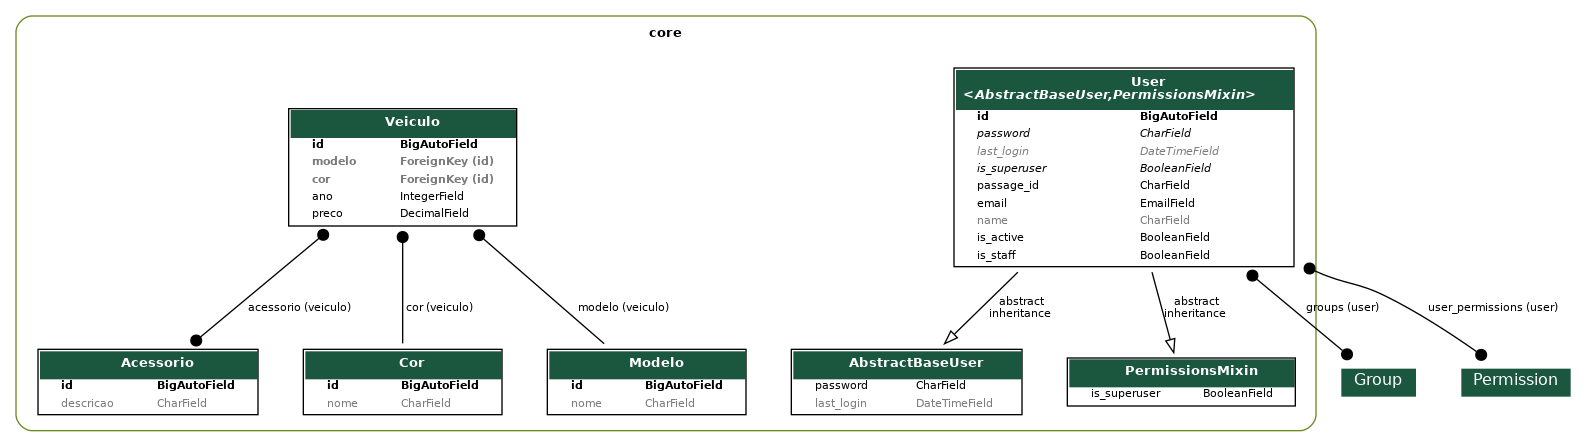
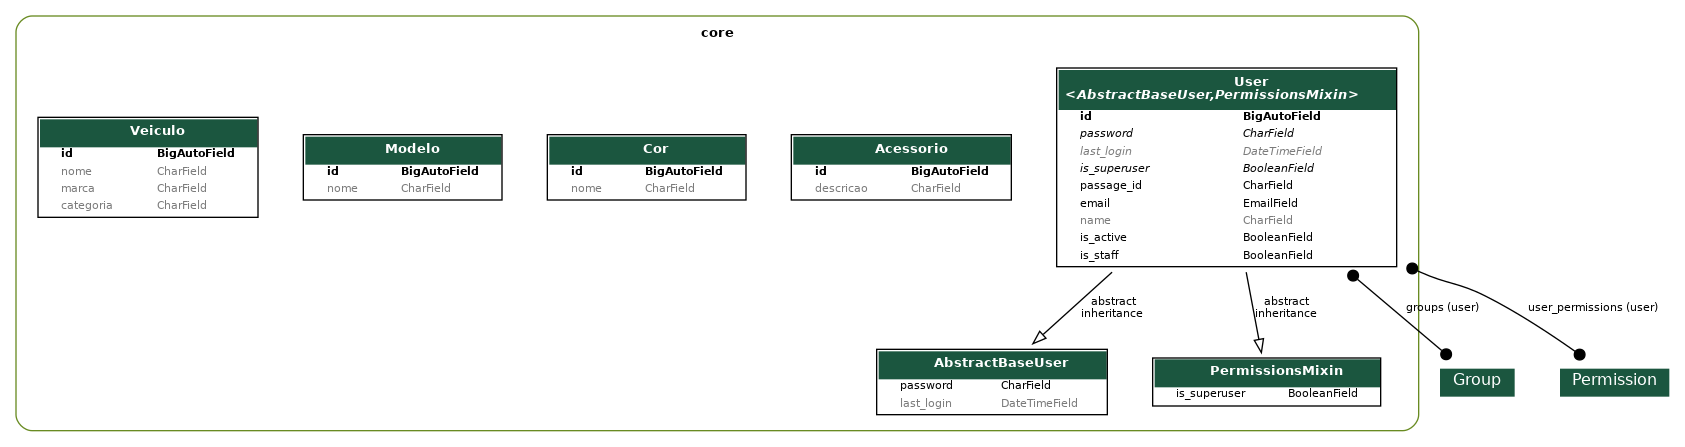
feat: criação de API para Veículo

diff --git a/core/migrations/0007_veiculo.py b/core/migrations/0007_veiculo.py
@@ -1,0 +1,22 @@
+# Generated by Django 5.1.7 on 2025-04-29 11:52
+
+from django.db import migrations, models
+
+
+class Migration(migrations.Migration):
+
+    dependencies = [
+        ('core', '0006_modelo'),
+    ]
+
+    operations = [
+        migrations.CreateModel(
+            name='Veiculo',
+            fields=[
+                ('id', models.BigAutoField(auto_created=True, primary_key=True, serialize=False, verbose_name='ID')),
+                ('nome', models.CharField(blank=True, max_length=80, null=True)),
+                ('marca', models.CharField(blank=True, max_length=80, null=True)),
+                ('categoria', models.CharField(blank=True, max_length=80, null=True)),
+            ],
+        ),
+    ]

diff --git a/core/models/veiculo.py b/core/models/veiculo.py
@@ -1,0 +1,12 @@
+from django.db import models
+
+
+
+class Veiculo(models.Model):
+     nome = models.CharField(max_length=80, blank=True, null=True)
+     marca = models.CharField(max_length=80, blank=True, null=True)
+     categoria = models.CharField(max_length=80, blank=True, null=True)
+ 
+ 
+     def __str__(self):
+         return f"({self.id}){self.nome.upper()}"

diff --git a/core/views/veiculo.py b/core/views/veiculo.py
@@ -1,0 +1,9 @@
+from rest_framework.viewsets import ModelViewSet
+
+from core.models import Veiculo
+from core.serializers import VeiculoSerializer
+
+...
+class VeiculoViewSet(ModelViewSet):
+    queryset = Veiculo.objects.all()
+    serializer_class = VeiculoSerializer

diff --git a/core/serializers/veiculo.py b/core/serializers/veiculo.py
@@ -1,0 +1,8 @@
+from rest_framework.serializers import ModelSerializer
+
+from core.models import Veiculo
+
+class VeiculoSerializer(ModelSerializer):
+    class Meta:
+        model = Veiculo
+        fields = "__all__"
